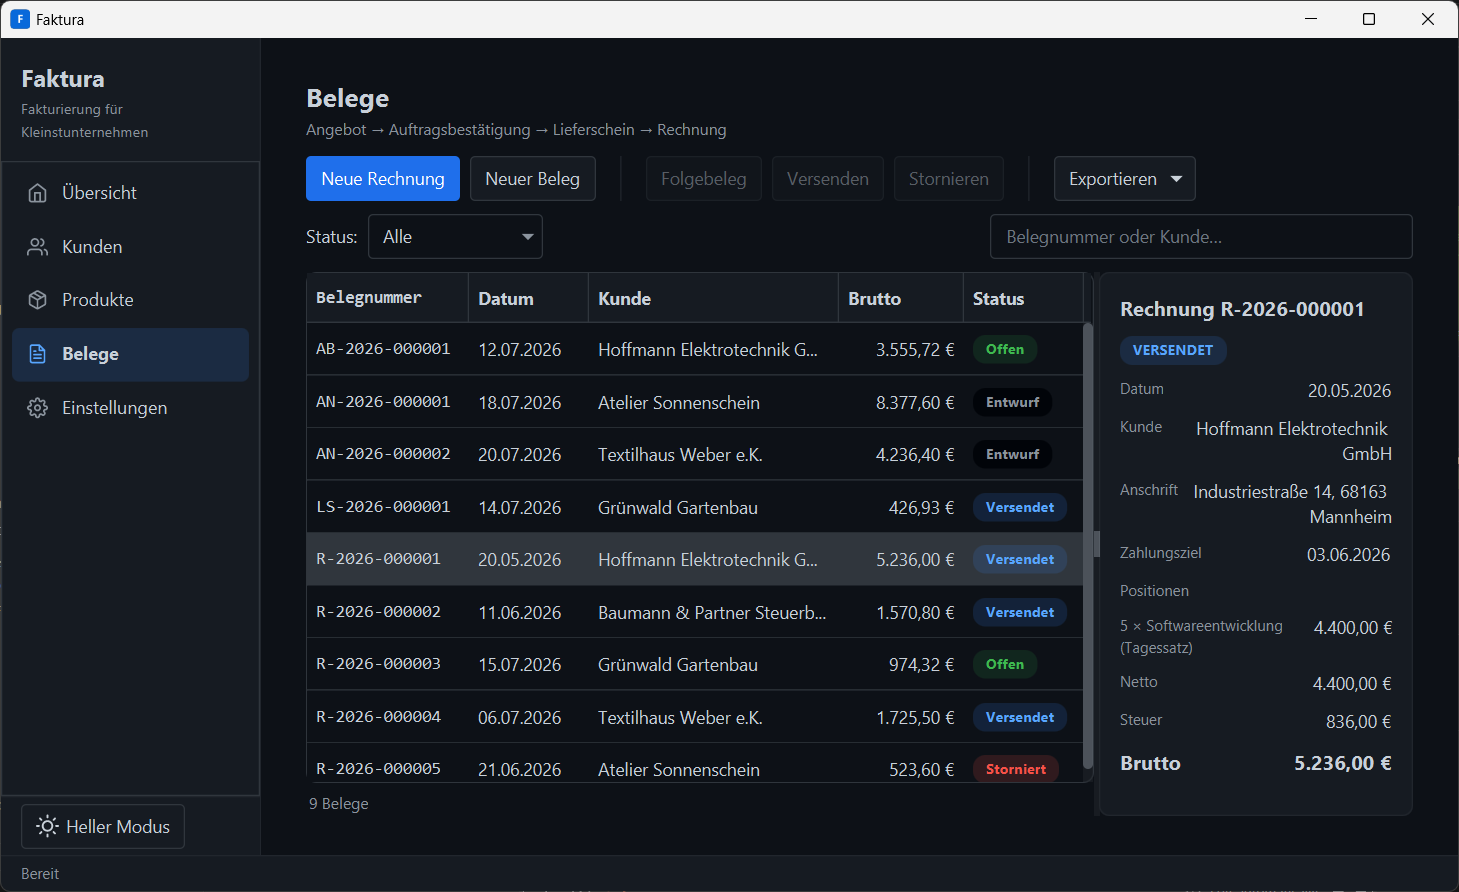
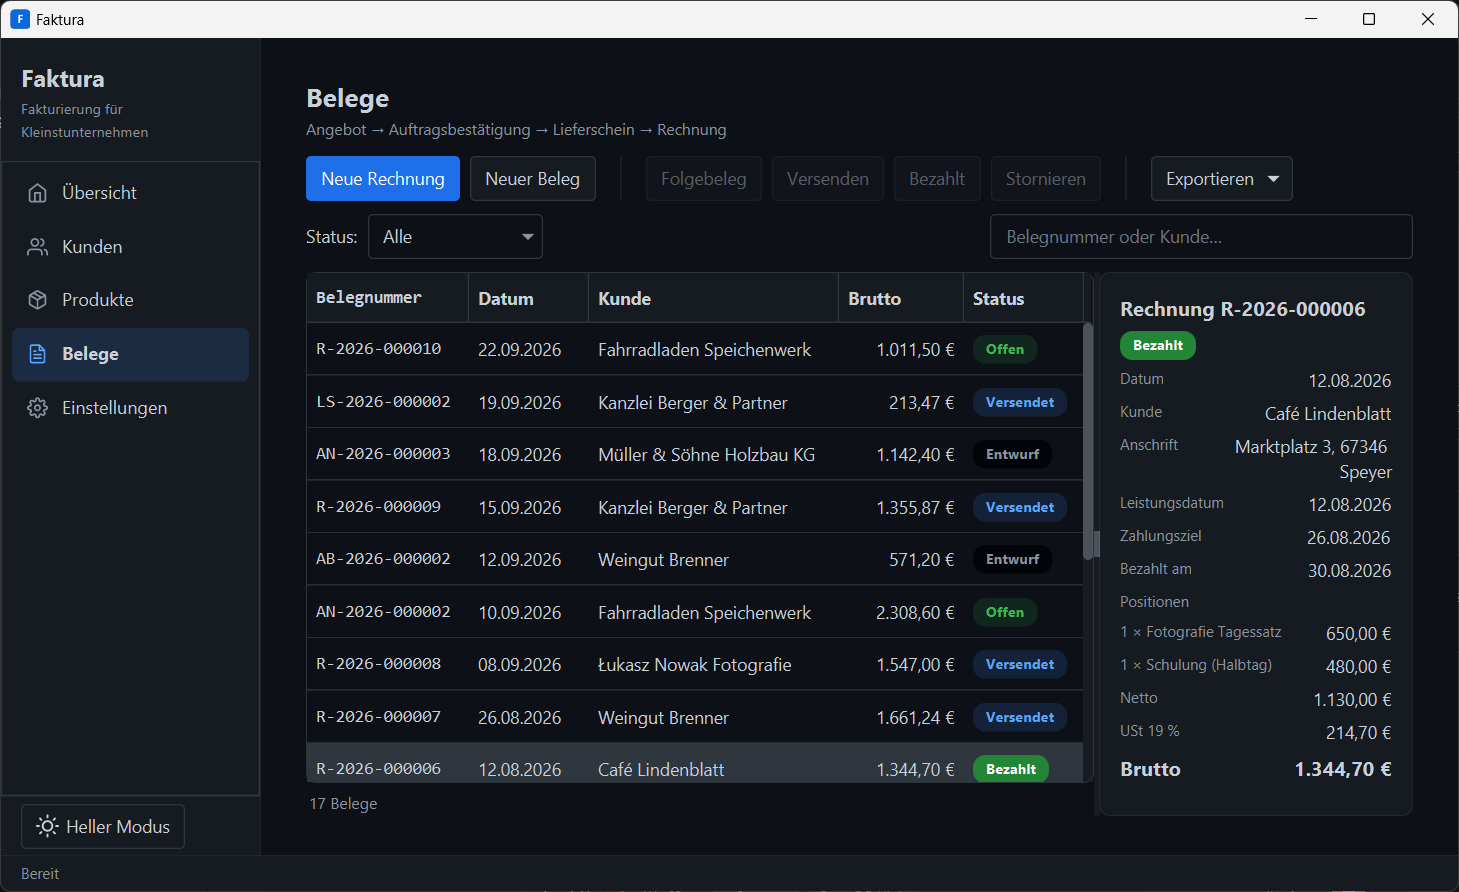
Detailbereich rollbar und kompakter; neue Screenshots aus Demodaten
Lange Anschriften und viele Positionen schoben den Detailbereich ueber
seine Grenzen hinaus. Screenshots zeigen jetzt Bezahlt-Status, Steuer je
Satz und stimmige Belegnummern; dazu eine PDF-Vorschau und ein Social-
Preview-Bild (1280x640) fuer GitHub.

diff --git a/src/main/resources/css/faktura.css b/src/main/resources/css/faktura.css
@@ -248,6 +248,14 @@
     -fx-pref-width: 290px;
 }
 
+/* Rollrahmen um den Detailbereich: unsichtbar, die Karte trägt die Optik */
+.detail-rahmen,
+.detail-rahmen > .viewport {
+    -fx-background-color: transparent;
+    -fx-padding: 0;
+    -fx-min-width: 250px;
+}
+
 .detail-titel {
     -fx-font-size: 1.15em;
     -fx-font-weight: bold;
